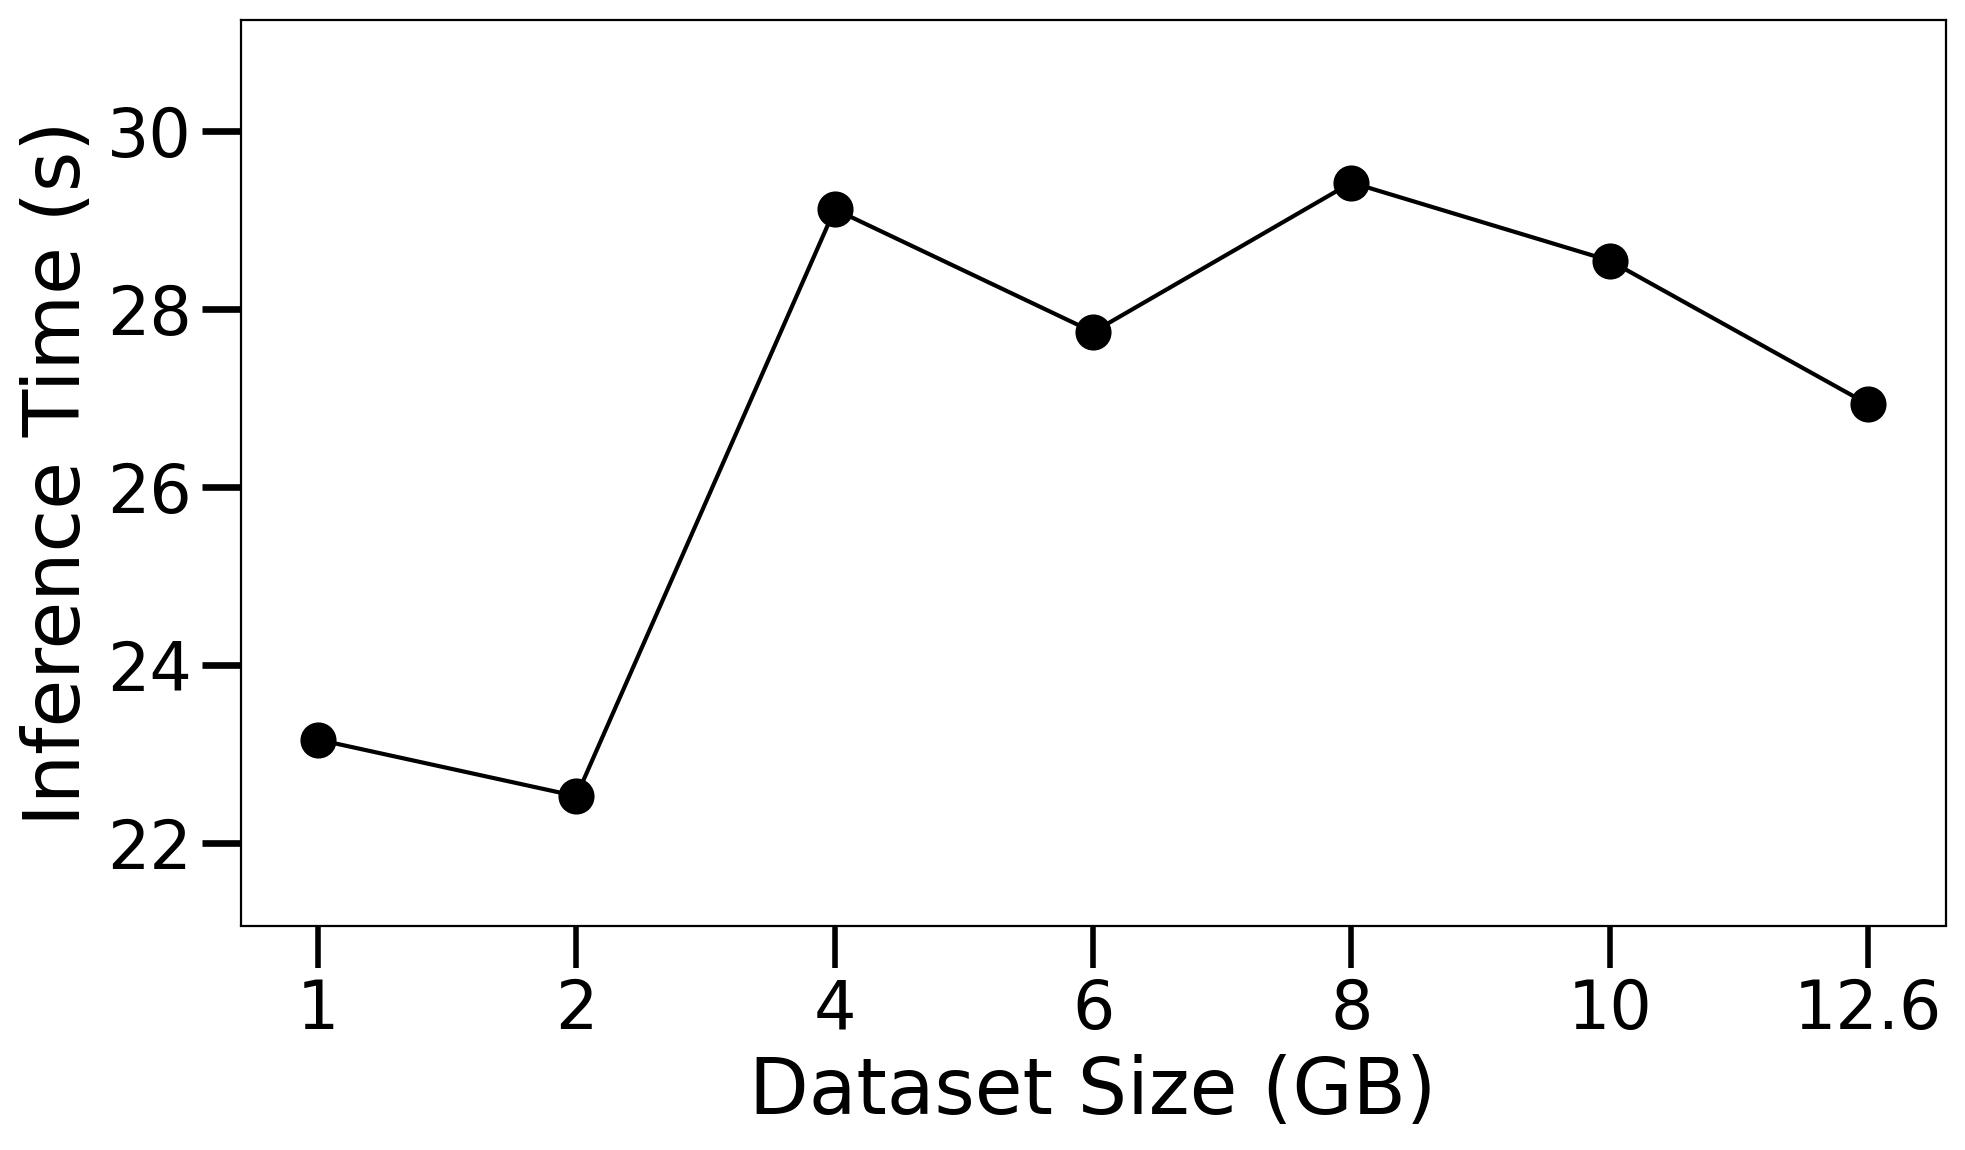
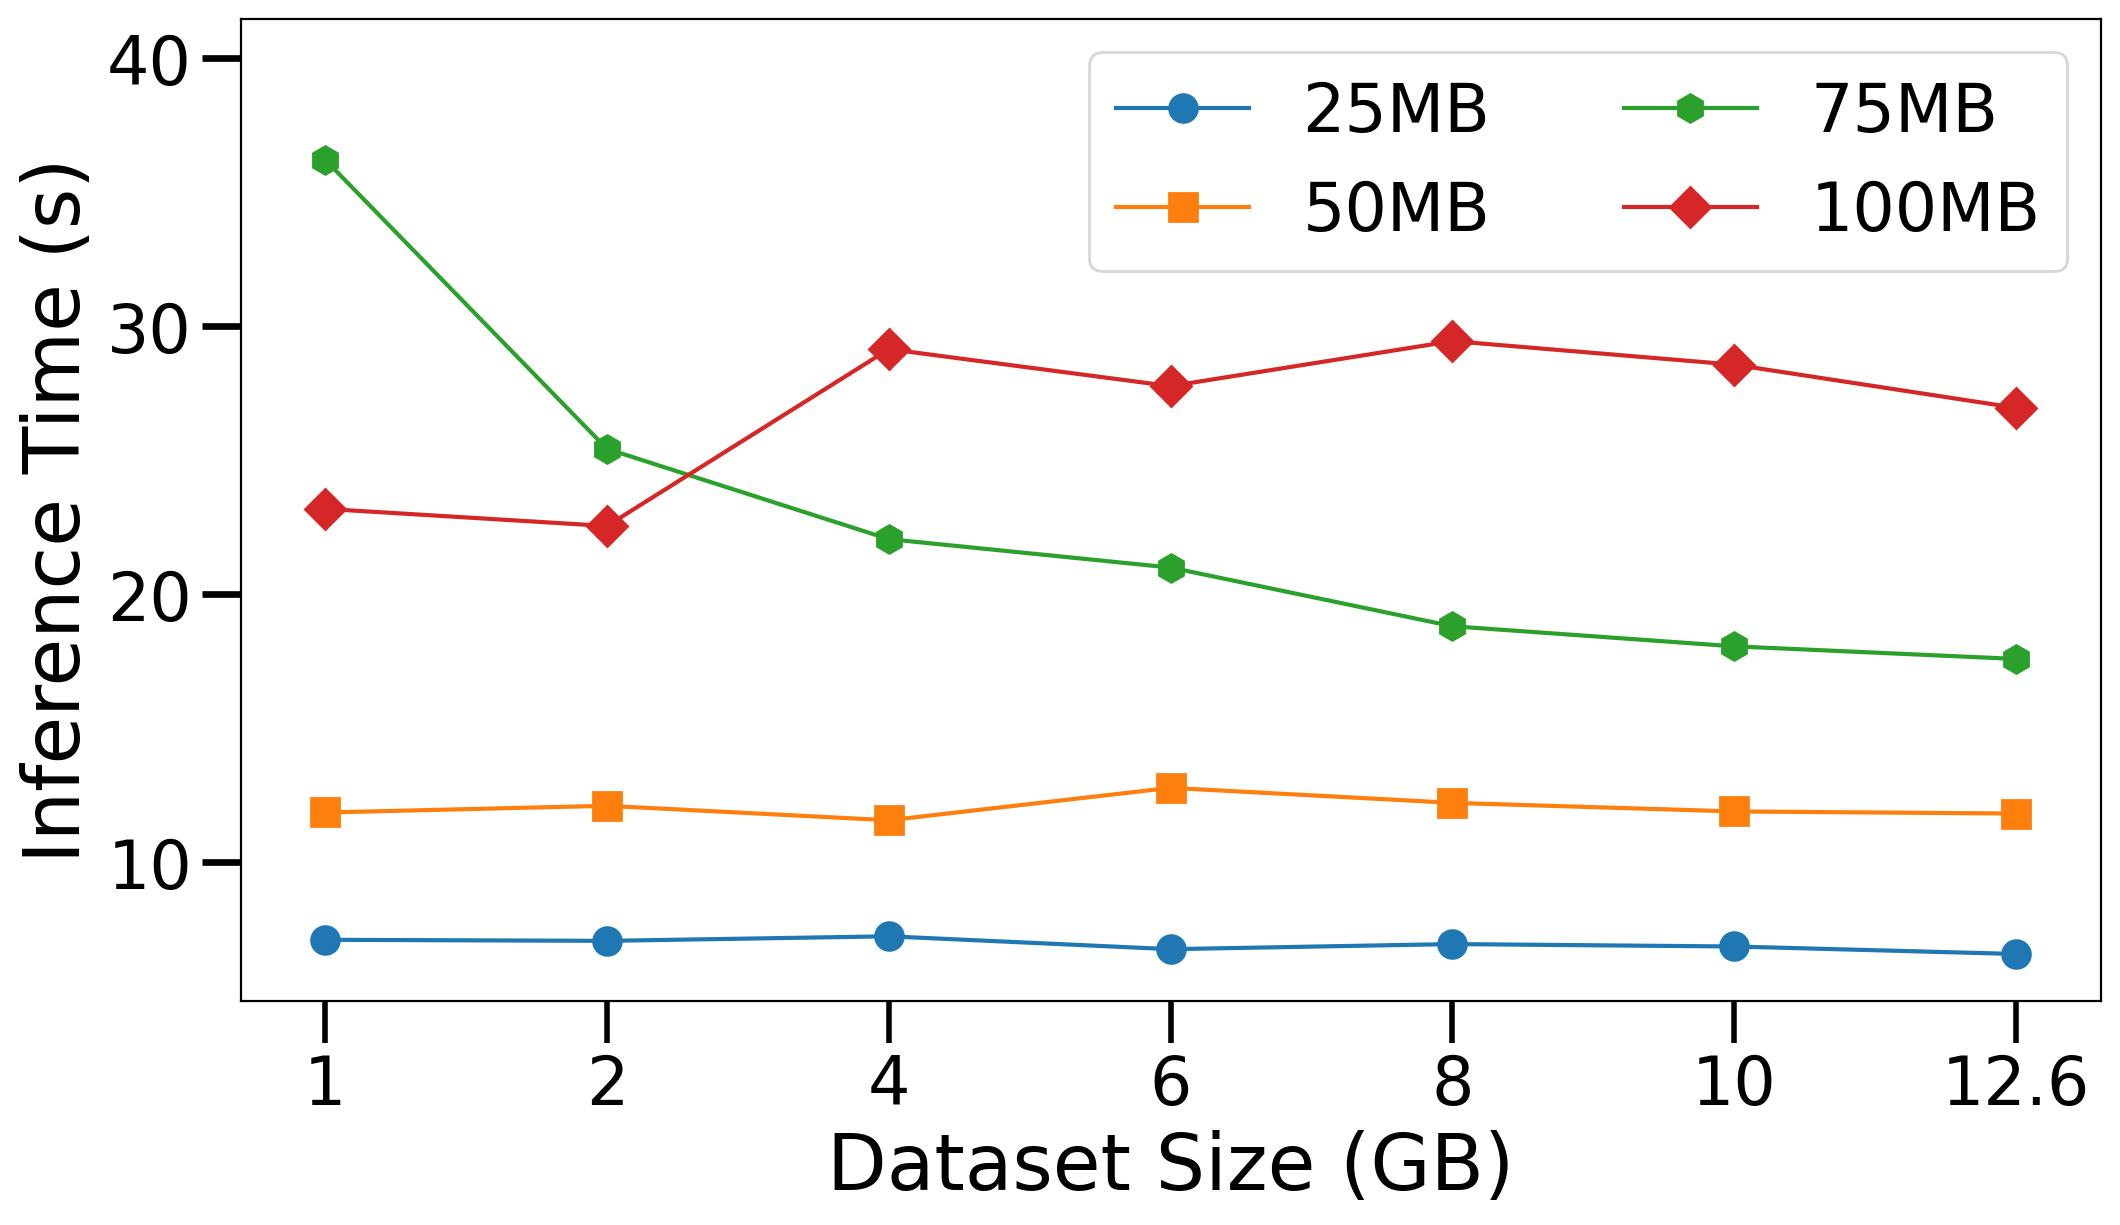
add plot for multiple data partitions

diff --git a/aws/stats.py b/aws/stats.py
@@ -5,9 +5,7 @@ import numpy as np
 # sync aws and local folders
 # aws s3 sync s3://cosmicai-data/results results
 
-def average_varying_batch_size():
-    batch_sizes = [32, 64, 128, 256, 512]
-    runs = 3
+def average_varying_batch_size(batch_sizes, runs):
     all_results = []
 
     keys = ['total_cpu_time (seconds)', "total_cpu_memory (MB)", "throughput_bps"]
@@ -16,7 +14,8 @@ def average_varying_batch_size():
 
     for batch_size in batch_sizes:
         for run in range(1, runs+1):
-            with open(f'./results/{data_size}/Batches/{batch_size}/run {run}/combined_data.json', 'r') as f:
+            combined_file = f'./results-partition-100MB/{data_size}/Batches/{batch_size}/run {run}/combined_data.json'
+            with open(combined_file, 'r') as f:
                 data = json.load(f)
                 
                 results = {
@@ -45,51 +44,67 @@ def average_varying_batch_size():
     all_results = pd.concat([all_results, mean], axis=0)
     all_results.sort_values([column_name, 'run'], inplace=True)
     
-    all_results.round(2).to_csv('./results/batch_varying_results.csv', index=False)
+    filename = './results/batch_varying_results.csv'
+    all_results.round(2).to_csv(filename, index=False)
+    print(f"Results saved to {filename}")
 
-def average_varying_data_size():
-    data_sizes = ['0.1GB', '1GB', '2GB', '4GB', '6GB', '8GB', '10GB', 'total']
-    runs = 3
+def average_varying_data_size(data_sizes, runs):
     all_results = []
 
     keys = ['total_cpu_time (seconds)', "total_cpu_memory (MB)", "throughput_bps"]
+    partitions = [25, 50, 75, 100] # in MB
 
-    for data_size in data_sizes:
-        for run in range(1, runs+1):
-            with open(f'./results/{data_size}/run {run}/combined_data.json', 'r') as f:
-                data = json.load(f)
+    for partition in partitions:
+        for data_size in data_sizes:
+            for run in range(1, runs+1):
+                combined_file = f'./result-partition-{partition}MB/{data_size}/run {run}/combined_data.json'
+                if not os.path.exists(combined_file):
+                    combined_file = f'./result-partition-{partition}MB/{data_size}/{run}/combined_data.json'
                 
-                results = {
-                    key: [] for key in keys
-                }
+                if not os.path.exists(combined_file):
+                    print(f'File not found: {combined_file}')
+                    continue
                 
-                for d in data:
-                    for key in keys:
-                        results[key].append(d[key])
-                
-                results = pd.DataFrame(results)
-                results['run'] = run
-                results['data_size'] = data_size
-                all_results.append(results)
+                with open(combined_file, 'r') as f:
+                    data = json.load(f)
+                    
+                    results = {key: [] for key in keys}
+                    for d in data:
+                        for key in keys:
+                            results[key].append(d[key])
+                    
+                    results = pd.DataFrame(results)
+                    results['partition(MB)'] = partition
+                    results['run'] = run
+                    
+                    if data_size == 'total':
+                        results['data(GB)'] = 12.6
+                    else: results['data(GB)'] = float(data_size.replace('GB', ''))
+                    
+                    all_results.append(results)
                 
     all_results = pd.concat(all_results)
     # all_results = all_results[['data_size', 'run'] + keys]
-    all_results = all_results.groupby(['data_size', 'run'])[keys].agg({
+    all_results = all_results.groupby(['partition(MB)','data(GB)', 'run'])[keys].agg({
         'total_cpu_time (seconds)': 'mean', 
         "total_cpu_memory (MB)": 'sum', 
         "throughput_bps": 'sum'
     }).reset_index()
 
-    mean = all_results.groupby(['data_size'])[keys].mean().reset_index()
-    mean.insert(1, 'run', 'mean')
+    mean = all_results.groupby(['partition(MB)','data(GB)'])[keys].mean().reset_index()
+    mean.insert(2, 'run', 'mean')
     all_results = pd.concat([all_results, mean], axis=0)
-    all_results.sort_values(['data_size', 'run'], inplace=True)
+    all_results.sort_values(['partition(MB)', 'data(GB)', 'run'], inplace=True)
 
-    all_results.round(2).to_csv('./results/result_stats.csv', index=False)
+    filename = './results/result_stats.csv'
+    all_results.round(2).to_csv(filename, index=False)
+    print(f'File saved at {filename}')
 
 if __name__ == '__main__':
-    # average_varying_batch_size()
-    # average_varying_data_size()
-    df = pd.read_csv('./results/total_execution_time.csv')
-    df['num_worlds'] = np.ceil(df['data(GB)'] * 1024 / df['partition(MB)'])
-    df.to_csv('./results/total_execution_time.csv', index=False)
+    partitions = [25, 50, 75, 100] # in MB
+    data_sizes = ['1GB', '2GB', '4GB', '6GB', '8GB', '10GB', 'total']
+    runs = 3
+    batch_sizes = [32, 64, 128, 256, 512]
+    
+    # average_varying_batch_size(batch_sizes, runs)
+    average_varying_data_size(data_sizes, runs)

diff --git a/aws/plot_config.py b/aws/plot_config.py
@@ -33,7 +33,7 @@ DPI = 200
 FIGSIZE = (12.5, 7)
 DATE_TICKS = 5
 
-markers = ['s', 'x', '+',  'h', 'D', '.', '^', '>', 'p', '<', '*', 'P', 'v']
+markers = ['o', 's', 'h', 'D','x', '.','p',  '+',  '^', '>', '<', '*', 'P', 'v']
 
 def get_formatter(scale):
     return FuncFormatter(lambda x, pos: '{0:g}'.format(x/scale))
